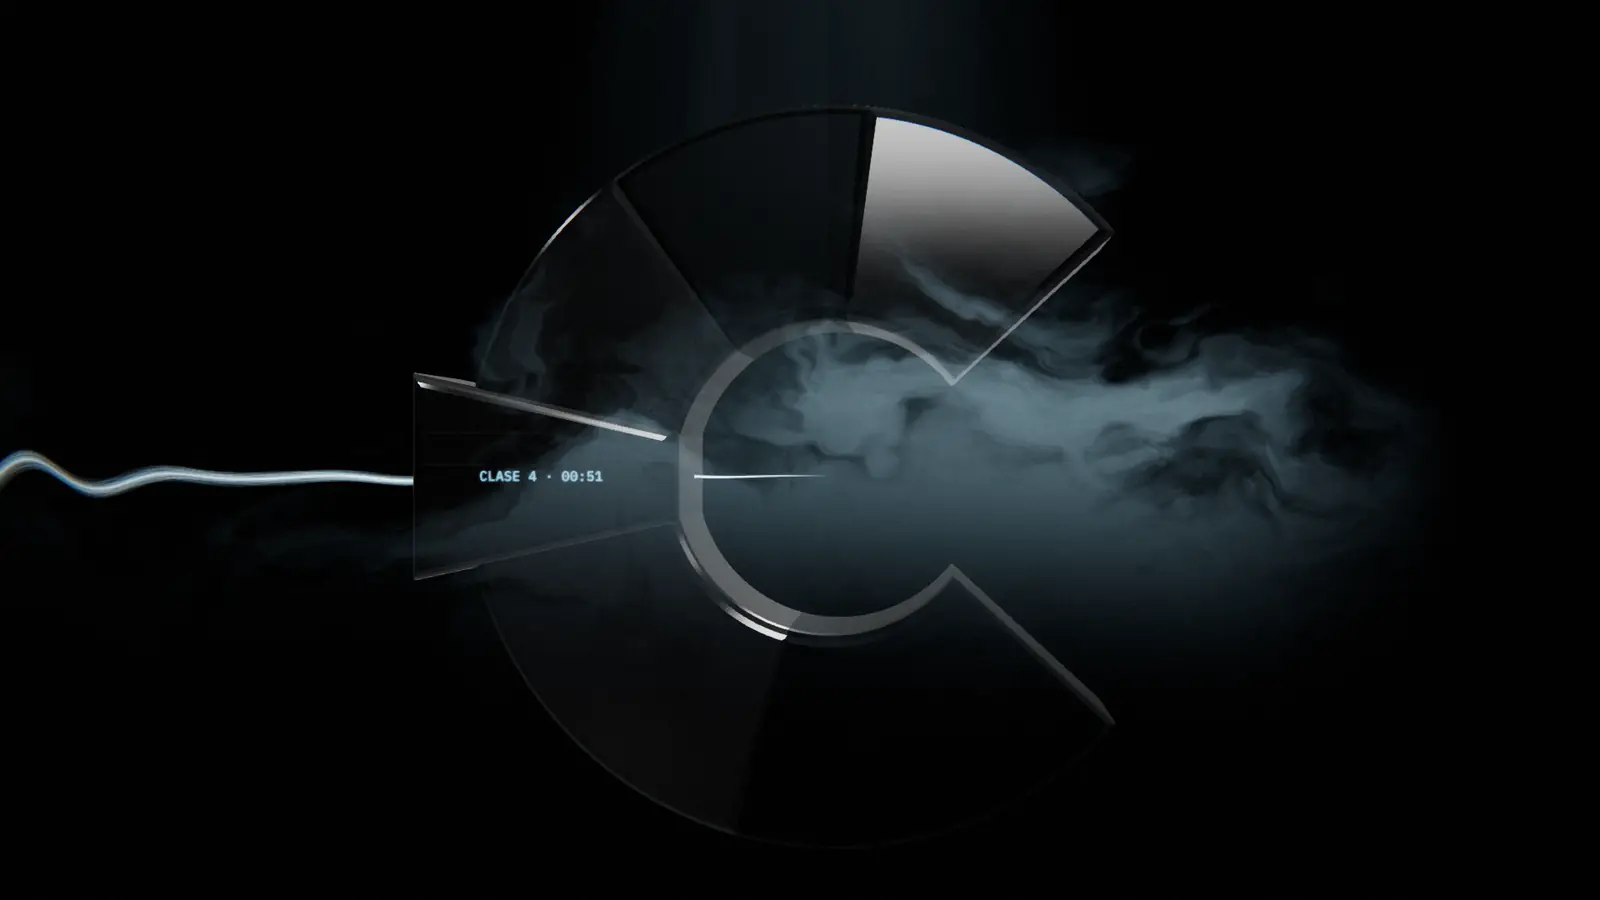
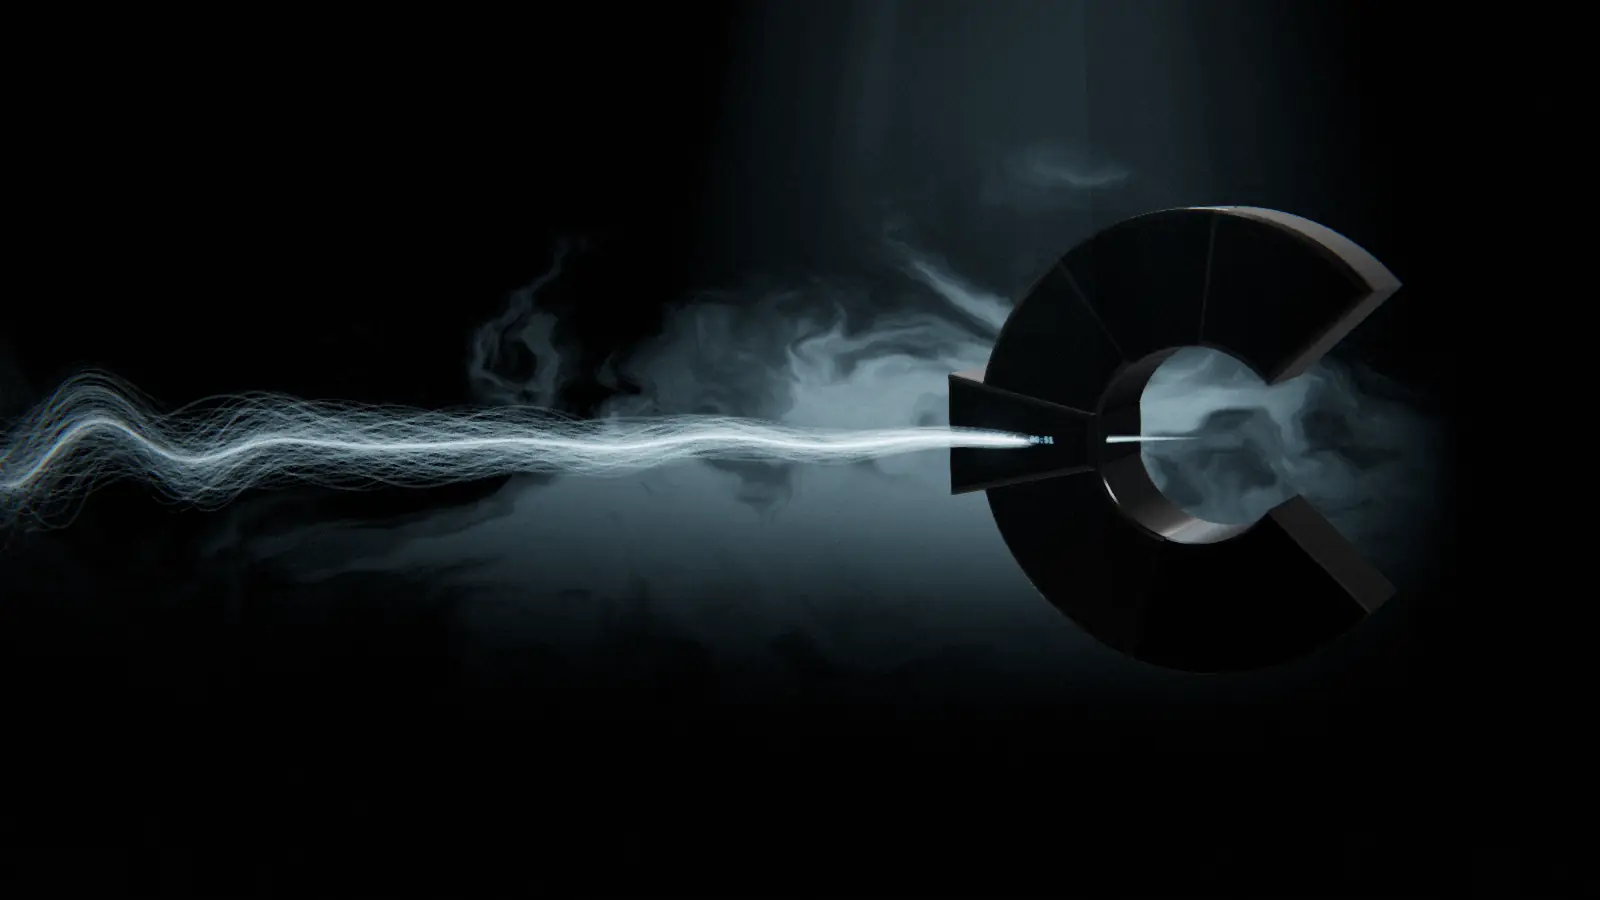
Página v3

diff --git a/nave.js b/nave.js
@@ -27,9 +27,11 @@ const ONYX = 0x020202, CANDY = 0xb2d5e5;
 // la letra del grabado de la clave tiene que estar antes de dibujar su textura
 try { await document.fonts.load('500 64px "IBM Plex Mono"'); } catch (e) { /* sigue con la de respaldo */ }
 const PALETAS = {
-  oscuro: { fondo: ONYX, exposicion: 0.92, entorno: 0.42, clave: 16, tinta: 1.0, haz: 1.0, sombra: 0.0 },
-  // tema claro: la pareja invertida (fondo Candy aclarado, materia Onyx); la luz pasa a ser sombra
-  claro: { fondo: 0xe8f2f6, exposicion: 0.95, entorno: 1.0, clave: 26, tinta: 0.55, haz: 0.35, sombra: 1.0 },
+  oscuro: { fondo: ONYX, exposicion: 0.92, entorno: 0.42, clave: 16, tinta: 1.0, haz: 1.0, sombra: 0.0, vineta: 0.5, umbral: 2.2, hilos: 1.0 },
+  // tema claro: la pareja invertida (fondo Candy aclarado, materia Onyx); la luz pasa a ser sombra:
+  // la tinta y los hilos restan en vez de sumar (trazos de Onyx sobre el claro) y el haz se apaga
+  // (sin tono fílmico: el fondo sale igual al de la página, #eef6f9, y la tinta oscurece sin virar de color)
+  claro: { fondo: 0xeef6f9, sinTono: true, exposicion: 1.0, entorno: 1.0, clave: 26, tinta: 1.7, haz: 0.0, sombra: 1.0, vineta: 0.1, umbral: 9, hilos: 2.4 },
 };
 
 /* ══════════════════════ los materiales ══════════════════════ */
@@ -266,13 +268,13 @@ const ESTADOS = [
   // 4 simulacro: las dovelas se reagrupan en la C, grande y lejos, detrás de la pantalla
   { p: [5.4, 2.2, -9.5], g: [0.15, -0.6, 0.0], e: 1.5, abre: 0, clave: 0, orden: 1, latido: 0, tinta: 0.6, haz: 0.6 },
   // 5 lo distinto: la C se abre y se va arriba; la clave sale con lo grabado a la vista
-  { p: [0.0, 6.5, -12.0], g: [0.2, 0.3, 0.1], e: 1.0, abre: 1.0, clave: 1, orden: 0.6, latido: 0, tinta: 0.2, haz: 0.2 },
+  { p: [0.0, 9.2, -14.0], g: [0.2, 0.3, 0.1], e: 1.0, abre: 1.0, clave: 1, orden: 0.6, latido: 0, tinta: 0.2, haz: 0.2 },
   // 6 las cuatro razones
-  { p: [0.0, 6.5, -12.0], g: [0.2, 0.5, 0.1], e: 1.0, abre: 1.0, clave: 0, orden: 0.6, latido: 0, tinta: 0.2, haz: 0.2 },
-  // 7 descargar: la cámara «entra» en la C (la C grande, el ojo en el centro, la caja adelante)
-  { p: [0.2, 0.1, -2.2], g: [0.0, -0.12, 0.0], e: 2.0, abre: 0, clave: 0, orden: 1, latido: 0, tinta: 0.8, haz: 0.5 },
-  // 8 pie
-  { p: [0.2, 0.1, -2.6], g: [0.0, -0.08, 0.0], e: 2.0, abre: 0, clave: 0, orden: 1, latido: 0, tinta: 0.6, haz: 0.4 },
+  { p: [0.0, 9.2, -14.0], g: [0.2, 0.5, 0.1], e: 1.0, abre: 1.0, clave: 0, orden: 0.6, latido: 0, tinta: 0.2, haz: 0.2 },
+  // 7 descargar: la cámara llega a la C: el ojo enmarca la caja como un portal
+  { p: [0.0, 0.05, -1.05], g: [0.04, -0.16, 0.0], e: 4.3, abre: 0, clave: 0, orden: 1, latido: 0, tinta: 0.8, haz: 0.5 },
+  // 8 pie: la cámara ya pasó por el ojo; el aro queda atrás, en los bordes
+  { p: [0.0, 0.05, -1.05], g: [0.02, -0.08, 0.0], e: 8.0, abre: 0, clave: 0, orden: 1, latido: 0, tinta: 0.6, haz: 0.4 },
 ];
 const CANALES = ["abre", "clave", "orden", "latido", "tinta", "haz"];
 
@@ -293,7 +295,10 @@ class Resorte {
   fijar(x) { this.x = this.y = x; this.v = 0; }
 }
 
-export function iniciar(lienzo, opciones = {}) {
+// un respiro entre etapas: el hilo principal queda libre para el texto y el puntero
+const respiro = () => new Promise((r) => (window.requestIdleCallback ? requestIdleCallback(() => r(), { timeout: 120 }) : setTimeout(r, 16)));
+
+export async function iniciar(lienzo, opciones = {}) {
   const quieto = !!opciones.quieto;
   const forzarAlta = /calidad=alta/.test(location.search);
   const forzarBaja = /calidad=baja/.test(location.search);
@@ -304,6 +309,11 @@ export function iniciar(lienzo, opciones = {}) {
     const prueba = document.createElement("canvas");
     const ctxPrueba = prueba.getContext("webgl2") || prueba.getContext("webgl");
     if (!ctxPrueba) return null;
+    // sin placa de verdad (dibujo por software), la escena traba la página: queda la imagen quieta
+    const datos = ctxPrueba.getExtension("WEBGL_debug_renderer_info");
+    const quien = datos ? String(ctxPrueba.getParameter(datos.UNMASKED_RENDERER_WEBGL)) : "";
+    const forzar3d = /calidad=|medir|saltar|[?&]3d/.test(location.search);
+    if (!forzar3d && /swiftshader|llvmpipe|softpipe|software|basic render/i.test(quien)) return null;
     const soltar = ctxPrueba.getExtension("WEBGL_lose_context");
     if (soltar) soltar.loseContext();
   } catch (e) {
@@ -330,7 +340,12 @@ export function iniciar(lienzo, opciones = {}) {
   renderer.shadowMap.type = T.PCFShadowMap;
 
   const escena = new T.Scene();
-  escena.background = new T.Color(pal.fondo);
+  escena.background = new T.Color();
+  const ponerFondo = () => {
+    escena.background.set(pal.fondo);
+    renderer.toneMapping = pal.sinTono ? 0 : T.ACESFilmicToneMapping;   // 0 = NoToneMapping
+  };
+  ponerFondo();
   const pmrem = new T.PMREMGenerator(renderer);
   const entorno = pmrem.fromScene(new T.RoomEnvironment(), 0.04).texture;
   escena.environment = entorno;
@@ -355,6 +370,7 @@ export function iniciar(lienzo, opciones = {}) {
   grupo.add(laClave);
   escena.add(grupo);
   avisar(0.45);
+  await respiro();
   // la clave, cuando sale, viene adelante con la cara grabada hacia la cámara
   const claveAfuera = { p: new T.Vector3(1.1, -0.72, 0.6), g: new T.Vector3(0.12, -0.72, 0.16), e: 1.55 };
 
@@ -386,12 +402,13 @@ export function iniciar(lienzo, opciones = {}) {
   if (apagar.includes("haz")) { elHaz.visible = false; }
   if (apagar.includes("entorno")) escena.environmentIntensity = 0;
   avisar(0.6);
+  await respiro();
 
   /* ── el dibujo: escena → halo contenido (sólo la marca de luz) → tono → suavizado → lente, viñeta,
      aberración mínima en los bordes y granito ── */
   const composer = new T.EffectComposer(renderer);
   composer.addPass(new T.RenderPass(escena, camara));
-  const halo = new T.UnrealBloomPass(new T.Vector2(256, 256), 0.12, 0.3, 2.2);
+  const halo = new T.UnrealBloomPass(new T.Vector2(256, 256), 0.12, 0.3, pal.umbral);
   composer.addPass(halo);
 
   /* el cursor como lente: el puntero deja una estela invisible (un lienzo chico que se borra
@@ -402,7 +419,7 @@ export function iniciar(lienzo, opciones = {}) {
   rctx.fillStyle = "#000"; rctx.fillRect(0, 0, rastro.width, rastro.height);
   const texRastro = new T.CanvasTexture(rastro);
   const lente = new T.ShaderPass({
-    uniforms: { tDiffuse: { value: null }, tRastro: { value: texRastro }, uPaso: { value: new T.Vector2(1 / 192, 1 / 108) }, uFuerza: { value: 1 }, uGrano: { value: 0.03 }, uVineta: { value: 0.5 } },
+    uniforms: { tDiffuse: { value: null }, tRastro: { value: texRastro }, uPaso: { value: new T.Vector2(1 / 192, 1 / 108) }, uFuerza: { value: 1 }, uGrano: { value: 0.03 }, uVineta: { value: pal.vineta } },
     vertexShader: "varying vec2 vUv; void main(){ vUv = uv; gl_Position = projectionMatrix * modelViewMatrix * vec4(position, 1.0); }",
     fragmentShader: `
       uniform sampler2D tDiffuse, tRastro; uniform vec2 uPaso; uniform float uFuerza, uGrano, uVineta; varying vec2 vUv;
@@ -504,8 +521,10 @@ export function iniciar(lienzo, opciones = {}) {
     return tramos[tramos.length - 1].i;
   }
   // en vertical (teléfono): la C arriba y al centro, más chica
-  function ajustarVertical(e) {
+  // en las secciones del medio el texto ocupa todo el ancho: la C, más chica y arriba, sin tapar títulos
+  function ajustarVertical(e, i) {
     if (ancho >= alto) return e;
+    if (i >= 1 && i <= 6) return { ...e, p: [e.p[0] * 0.2, e.p[1] + 2.3, e.p[2] - 0.6], e: e.e * 0.55 };
     return { ...e, p: [e.p[0] * 0.25, e.p[1] + 0.95, e.p[2] - 0.6], e: e.e * 0.8 };
   }
   const suave = (t) => t * t * (3 - 2 * t);
@@ -516,7 +535,7 @@ export function iniciar(lienzo, opciones = {}) {
     const n = ESTADOS.length - 1;
     const i = Math.min(Math.max(Math.floor(s), 0), n), j = Math.min(i + 1, n);
     const f = suave(Math.min(Math.max(s - i, 0), 1));
-    const a = ajustarVertical(ESTADOS[i]), b = ajustarVertical(ESTADOS[j]);
+    const a = ajustarVertical(ESTADOS[i], i), b = ajustarVertical(ESTADOS[j], j);
     objetivo.p.set(...a.p).lerp(tmp.set(...b.p), f);
     objetivo.g.set(...a.g).lerp(tmp.set(...b.g), f);
     objetivo.e = a.e + (b.e - a.e) * f;
@@ -678,9 +697,26 @@ export function iniciar(lienzo, opciones = {}) {
     entorno.dispose(); pmrem.dispose(); texRastro.dispose(); renderer.dispose();
   });
 
+  const RESTA = 3;   // SubtractiveBlending de three (la biblioteca recortada no lo exporta)
+  // en claro la tinta y los hilos oscurecen (restan luz al fondo); en oscuro, suman luz Candy
+  function materiaSegunTema() {
+    const claro = !!pal.sinTono;
+    for (const m of [laTinta.material, hilos.material]) {
+      m.blending = claro ? RESTA : T.AdditiveBlending;
+      m.premultipliedAlpha = claro;
+      m.uniforms.uColor.value.set(claro ? 0xffffff : CANDY);
+      m.needsUpdate = true;
+    }
+    hilos.material.uniforms.uFuerza.value = pal.hilos;
+  }
+  materiaSegunTema();
+
   function repintarTema() {
     pal = esClaro() ? PALETAS.claro : PALETAS.oscuro;
-    escena.background.set(pal.fondo);
+    ponerFondo();
+    materiaSegunTema();
+    lente.uniforms.uVineta.value = pal.vineta;
+    halo.threshold = pal.umbral;
     escena.environmentIntensity = pal.entorno;
     luzClave.intensity = pal.clave;
     renderer.toneMappingExposure = pal.exposicion;

diff --git a/pagina.js b/pagina.js
@@ -41,8 +41,11 @@ document.querySelectorAll("[data-contacto-texto]").forEach((el) => { el.textCont
    sigue siendo uno solo para quien lee con lector de pantalla. */
 document.querySelectorAll(".palabras").forEach((el) => {
   const texto = el.textContent.trim();
-  el.setAttribute("aria-label", texto);
   el.textContent = "";
+  const lector = document.createElement("span");
+  lector.className = "solo-lector";
+  lector.textContent = texto;
+  el.appendChild(lector);
   texto.split(/\s+/).forEach((p, i) => {
     const caja = document.createElement("span");
     caja.className = "pal";
@@ -87,15 +90,17 @@ const carga = document.getElementById("carga");
 const cifra = document.getElementById("carga-cifra");
 const trazo = carga && carga.querySelector(".cs-trazo");
 const inicio = performance.now();
-let medidoLetras = 0, medidoNave = 0, mostrado = 0, abierta = false, naveLista = false, sinNave = false;
+let medidoLetras = 0, medidoNave = 0, medidoPagina = 0, mostrado = 0, abierta = false, naveLista = false, sinNave = false;
 PAGINA.cargando = (p) => { medidoNave = Math.max(medidoNave, p); };
 if (document.fonts && document.fonts.ready) document.fonts.ready.then(() => { medidoLetras = 1; });
 else medidoLetras = 1;
 setTimeout(() => { medidoLetras = 1; }, 2500);
+if (document.readyState === "complete") medidoPagina = 1; else window.addEventListener("load", () => { medidoPagina = 1; });
 
 function pasoCarga(ahora) {
   if (abierta) return;
-  const medido = medidoLetras * 0.3 + medidoNave * 0.7;
+  // la carga mide las letras y la página; la escena llega después, encima de la imagen quieta
+  const medido = medidoLetras * 0.7 + medidoPagina * 0.3;
   const dt = 1 / 60;
   mostrado += (medido - mostrado) * (1 - Math.exp(-7 * dt));
   // nunca más rápido que 1 por segundo: la carga mínima es de un segundo
@@ -103,9 +108,9 @@ function pasoCarga(ahora) {
   if (medido >= 0.999 && mostrado > 0.985) mostrado = 1;
   if (trazo) trazo.style.strokeDashoffset = String(100 - mostrado * 100);
   if (cifra) cifra.textContent = String(Math.round(mostrado * 100)).padStart(3, "0");
-  // tope: a los 2,5 s se abre igual; si la nave no llegó, mientras tanto se ve la imagen quieta
-  if (mostrado >= 1 || ahora - inicio > 2500) {
-    if (mostrado < 1 && !naveLista) raiz.classList.add("esperando-nave");
+  // tope: a los 1,8 s se abre igual; si la nave no llegó, mientras tanto se ve la imagen quieta
+  if (mostrado >= 1 || ahora - inicio > 1800) {
+    if (!naveLista && !sinNave) raiz.classList.add("esperando-nave");
     abrir();
     return;
   }
@@ -157,8 +162,24 @@ function quedarseQuieta() {
 }
 PAGINA.sinNave = quedarseQuieta;
 const hayLienzo = !!document.getElementById("nave");
+// sin placa de verdad (dibujo por software) la escena traba la página: ni se pide la biblioteca
+function placaDeVerdad() {
+  if (/calidad=|medir|saltar|[?&]3d/.test(location.search)) return true;
+  try {
+    const c = document.createElement("canvas").getContext("webgl");
+    if (!c) return false;
+    const d = c.getExtension("WEBGL_debug_renderer_info");
+    const quien = d ? String(c.getParameter(d.UNMASKED_RENDERER_WEBGL)) : "";
+    const soltar = c.getExtension("WEBGL_lose_context");
+    if (soltar) soltar.loseContext();
+    return !/swiftshader|llvmpipe|softpipe|software|basic render/i.test(quien);
+  } catch (e) {
+    return false;
+  }
+}
 function pedirNave() {
   if (!hayLienzo || quieto || sinNave) return;
+  if (!placaDeVerdad()) { quedarseQuieta(); return; }
   medidoNave = Math.max(medidoNave, 0.1);
   import("./nave.js")
     .then((m) => { medidoNave = Math.max(medidoNave, 0.6); PAGINA.nave(m.iniciar); })
@@ -166,19 +187,21 @@ function pedirNave() {
 }
 if (hayLienzo && quieto) quedarseQuieta();
 else if (hayLienzo) {
-  // la biblioteca se pide recién después del primer dibujo con contenido (no compite con el texto)
+  // la escena se pide cuando la página ya está quieta (o con el primer gesto): no compite con el
+  // texto ni con la carga; mientras tanto se ve la imagen quieta de la misma escena
   let pedida = false;
   const pedirUnaVez = () => { if (!pedida) { pedida = true; pedirNave(); } };
-  try {
-    new PerformanceObserver((l) => { if (l.getEntriesByName("first-contentful-paint").length) pedirUnaVez(); })
-      .observe({ type: "paint", buffered: true });
-  } catch (e) { /* navegador sin el observador: el respaldo de abajo */ }
-  setTimeout(pedirUnaVez, 1200);
+  const cuandoQuieta = () => {
+    if ("requestIdleCallback" in window) requestIdleCallback(pedirUnaVez, { timeout: 2500 });
+    else setTimeout(pedirUnaVez, 600);
+  };
+  if (document.readyState === "complete") cuandoQuieta(); else window.addEventListener("load", cuandoQuieta, { once: true });
+  ["pointerdown", "keydown", "wheel", "touchstart"].forEach((ev) => window.addEventListener(ev, pedirUnaVez, { once: true, passive: true }));
 }
-PAGINA.nave = (iniciar) => {
+PAGINA.nave = async (iniciar) => {
   const lienzo = document.getElementById("nave");
   try {
-    const motor = iniciar(lienzo, { quieto: false });
+    const motor = await iniciar(lienzo, { quieto: false });
     if (!motor) { quedarseQuieta(); return; }
     PAGINA.motor = motor;
     naveLista = true;
@@ -190,7 +213,7 @@ PAGINA.nave = (iniciar) => {
   }
 };
 // si el módulo no llega (navegador viejo, archivo abierto sin servidor), la imagen quieta
-if (hayLienzo) setTimeout(() => { if (!naveLista && !sinNave) quedarseQuieta(); }, 9000);
+if (hayLienzo) setTimeout(() => { if (!naveLista && !sinNave) quedarseQuieta(); }, 20000);
 
 /* ══════════════════════ las pantallas con profundidad ══════════════════════ */
 /* El marco se inclina hacia el puntero (hasta 6°) y el brillo del vidrio lo sigue. */

diff --git a/direccion.html b/direccion.html
@@ -49,6 +49,15 @@
     <p>Pasa la clave. Las portadas quedan entre 7,6 y 7,75: lo que más falta es la luz sobre el ónix (un brillo del canto de arriba todavía se quema) y el material de la clave en la variante anodizada, que sale más plateado que celeste. Se ajusta en cuanto el dueño elija la variante; no tiene sentido pulir las cuatro.</p>
 
 
+    <h2>La v3: lo que cambió</h2>
+    <p>El remate entra por el ojo de la C: en «Descargar» el aro enmarca la caja como un portal y en el pie la cámara ya pasó adentro, con la clase y el minuto grabados en grande. El tema claro dejó de verse gris: el fondo sale igual al de la página y la tinta y los hilos oscurecen en vez de sumar luz (tinta de verdad sobre agua clara). En el teléfono la C va chica y arriba en las secciones del medio, sin tapar títulos. Las imágenes quietas se rehicieron con la portada actual.</p>
+    <table><tr><th>Sección</th><th>Materiales</th><th>Luz</th><th>Vacío</th><th>Acabado</th><th>Tipografía</th><th>Concepto</th><th>Sin juego</th><th>Marca</th><th>Promedio</th><th>¿Pasa?</th></tr><tr><td>Descargar · el portal</td><td>8</td><td>8</td><td>8</td><td>8</td><td>8</td><td>9</td><td>8</td><td>8.5</td><td>8.19</td><td class="si">sí</td></tr><tr><td>Pie · adentro del ojo</td><td>8</td><td>8</td><td>8</td><td>8</td><td>8</td><td>8.5</td><td>8</td><td>8.5</td><td>8.12</td><td class="si">sí</td></tr><tr><td>Portada · tema claro</td><td>8</td><td>8</td><td>8.5</td><td>8</td><td>8</td><td>8.5</td><td>8.5</td><td>8.5</td><td>8.25</td><td class="si">sí</td></tr><tr><td>Teléfono · tema claro</td><td>8</td><td>7.5</td><td>8</td><td>8</td><td>8</td><td>8</td><td>8.5</td><td>8</td><td>8.00</td><td class="si">sí</td></tr></table>
+    <figure><img src="direccion/v3/comparar-descargar.webp" width="1800" height="561" loading="lazy" alt="Montaje: la referencia y la sección Descargar de la v3, con el aro de la C alrededor de la caja."><figcaption>Descargar: referencia a la izquierda, la v3 a la derecha.</figcaption></figure>
+    <figure><img src="direccion/v3/comparar-pie.webp" width="1800" height="561" loading="lazy" alt="Montaje: la referencia y el pie de la v3, adentro del ojo de la C."><figcaption>Pie: referencia a la izquierda, la v3 a la derecha.</figcaption></figure>
+    <figure><img src="direccion/v3/comparar-claro.webp" width="1800" height="534" loading="lazy" alt="Montaje: la portada en tema claro de la v2 y de la v3."><figcaption>Tema claro: v2 a la izquierda (gris), v3 a la derecha.</figcaption></figure>
+    <figure><img src="direccion/v3/claro-secciones.webp" width="1800" height="534" loading="lazy" alt="Dos secciones de la v3 en tema claro: el paso 1 y descargar."><figcaption>Tema claro: paso 1 y descargar.</figcaption></figure>
+    <figure style="max-width:690px"><img src="direccion/v3/comparar-telefono.webp" width="690" height="766" loading="lazy" alt="Montaje: el teléfono en la v2 y el paso 2 en la v3 con tema claro."><figcaption>Teléfono: v2 a la izquierda, v3 a la derecha.</figcaption></figure>
+
     <h2>La v2 entera, sección por sección (7/10)</h2>
     <p>Construida sobre la escena elegida: la tinta en agua negra (profundidad), la luz volumétrica Candy sin quemarse y la voz como hilos de luz con volumen que llegan dispersos y entran ordenados en la C en los primeros tres segundos. La clave ahora es una cuña tallada con chaflanes y la clase y el minuto grabados en luz.</p>
     <table><tr><th>Sección</th><th>Materiales</th><th>Luz</th><th>Vacío</th><th>Acabado</th><th>Tipografía</th><th>Concepto</th><th>Sin juego</th><th>Marca</th><th>Promedio</th><th>¿Pasa?</th></tr><tr><td>Portada</td><td>8</td><td>8</td><td>8.5</td><td>8</td><td>8</td><td>8.5</td><td>8.5</td><td>9</td><td>8.31</td><td class="si">sí</td></tr><tr><td>Paso 1 · grabar</td><td>7.5</td><td>8</td><td>8.5</td><td>8</td><td>8</td><td>8</td><td>8</td><td>8.5</td><td>8.06</td><td class="si">sí</td></tr><tr><td>Paso 2 · la clave tallada</td><td>8</td><td>7.5</td><td>8.5</td><td>8</td><td>8</td><td>8.5</td><td>8</td><td>8.5</td><td>8.12</td><td class="si">sí</td></tr><tr><td>Paso 3 · preguntar</td><td>7.5</td><td>8</td><td>8.5</td><td>8</td><td>8</td><td>8.5</td><td>8</td><td>8</td><td>8.06</td><td class="si">sí</td></tr><tr><td>Paso 4 · simulacro</td><td>8</td><td>7.5</td><td>8</td><td>8</td><td>8</td><td>8.5</td><td>8</td><td>8.5</td><td>8.06</td><td class="si">sí</td></tr><tr><td>Lo distinto · la clave</td><td>8</td><td>8</td><td>9</td><td>8</td><td>8.5</td><td>8.5</td><td>8</td><td>8.5</td><td>8.31</td><td class="si">sí</td></tr><tr><td>Las cuatro razones</td><td>8</td><td>7.5</td><td>8.5</td><td>8</td><td>8.5</td><td>8</td><td>8</td><td>8</td><td>8.06</td><td class="si">sí</td></tr><tr><td>Descargar</td><td>7.5</td><td>8</td><td>8</td><td>8</td><td>8</td><td>8.5</td><td>8</td><td>8</td><td>8.00</td><td class="si">sí</td></tr></table>

diff --git a/estilos.css b/estilos.css
@@ -149,6 +149,19 @@ img { display: block; max-width: 100%; height: auto; }
   :root:not([data-tema="oscuro"]).sin-3d .escena-quieta,
   :root:not([data-tema="oscuro"]).esperando-nave .escena-quieta { background-image: url(imagenes/nave-quieta-claro.webp); }
 }
+@media (orientation: portrait) {
+  .sin-3d .escena-quieta, .esperando-nave .escena-quieta { background-image: url(imagenes/nave-quieta-vertical.webp); background-position: center top; }
+}
+@media (orientation: portrait) and (prefers-color-scheme: light) {
+  :root:not([data-tema="oscuro"]).sin-3d .escena-quieta,
+  :root:not([data-tema="oscuro"]).esperando-nave .escena-quieta { background-image: url(imagenes/nave-quieta-vertical-claro.webp); }
+}
+
+:root[data-tema="claro"].sin-3d .escena-quieta, :root[data-tema="claro"].esperando-nave .escena-quieta { background-image: url(imagenes/nave-quieta-claro.webp); }
+@media (orientation: portrait) {
+  :root[data-tema="claro"].sin-3d .escena-quieta, :root[data-tema="claro"].esperando-nave .escena-quieta { background-image: url(imagenes/nave-quieta-vertical-claro.webp); }
+}
+
 /* el velo: oscurece lo justo detrás del texto, más en los bordes (viñeta) */
 .escena-velo {
   position: absolute; inset: 0;
@@ -173,14 +186,15 @@ img { display: block; max-width: 100%; height: auto; }
   filter: drop-shadow(0 0 6px var(--oro-halo));
 }
 .cs-clave { fill: var(--oro); opacity: .12; transition: opacity .4s var(--curva), filter .6s var(--curva); }
+.solo-lector { position: absolute; width: 1px; height: 1px; overflow: hidden; clip: rect(0 0 0 0); clip-path: inset(50%); white-space: nowrap; }
 .carga-cifra {
   position: absolute; left: var(--gutter); bottom: clamp(20px, 5vh, 48px);
   font: 500 clamp(56px, 8vw, 120px)/.8 var(--mono);
   letter-spacing: -.04em;
-  color: color-mix(in srgb, var(--oro) 60%, var(--fondo));
-  opacity: .55;
+  color: var(--texto);
 }
 .abriendo .carga, .abierta .carga { opacity: 0; visibility: hidden; }
+.abriendo .carga-cifra, .abierta .carga-cifra { visibility: hidden; }
 .abriendo .cs-clave, .abierta .cs-clave { opacity: 1; filter: drop-shadow(0 0 12px var(--oro)); }
 .abriendo .carga-signo { transform: var(--viaje, none); }
 

diff --git a/index.html b/index.html
@@ -148,7 +148,7 @@
       <p class="rotulo">Lo que la hace distinta</p>
       <h2 id="distinta-tit" class="titular voz"><span class="palabras">Todo lo que dijo el profesor, con la clase y el minuto.</span></h2>
     </header>
-    <p class="distinta-bajada" data-tramo="6">Estudia lo que va a tomar tu profesor, no un apunte cualquiera.</p>
+    <p class="distinta-bajada" data-tramo="6">Estudiá lo que va a tomar tu profesor, no un apunte cualquiera.</p>
     <ul class="virtudes">
       <li>
         <h3>Desde lo que dijo el profesor</h3>
@@ -231,6 +231,6 @@
   <button class="visor-cerrar" type="button" data-cerrar>Cerrar</button>
 </dialog>
 
-<script src="pagina.js"></script>
+<script src="pagina.js" defer></script>
 </body>
 </html>
